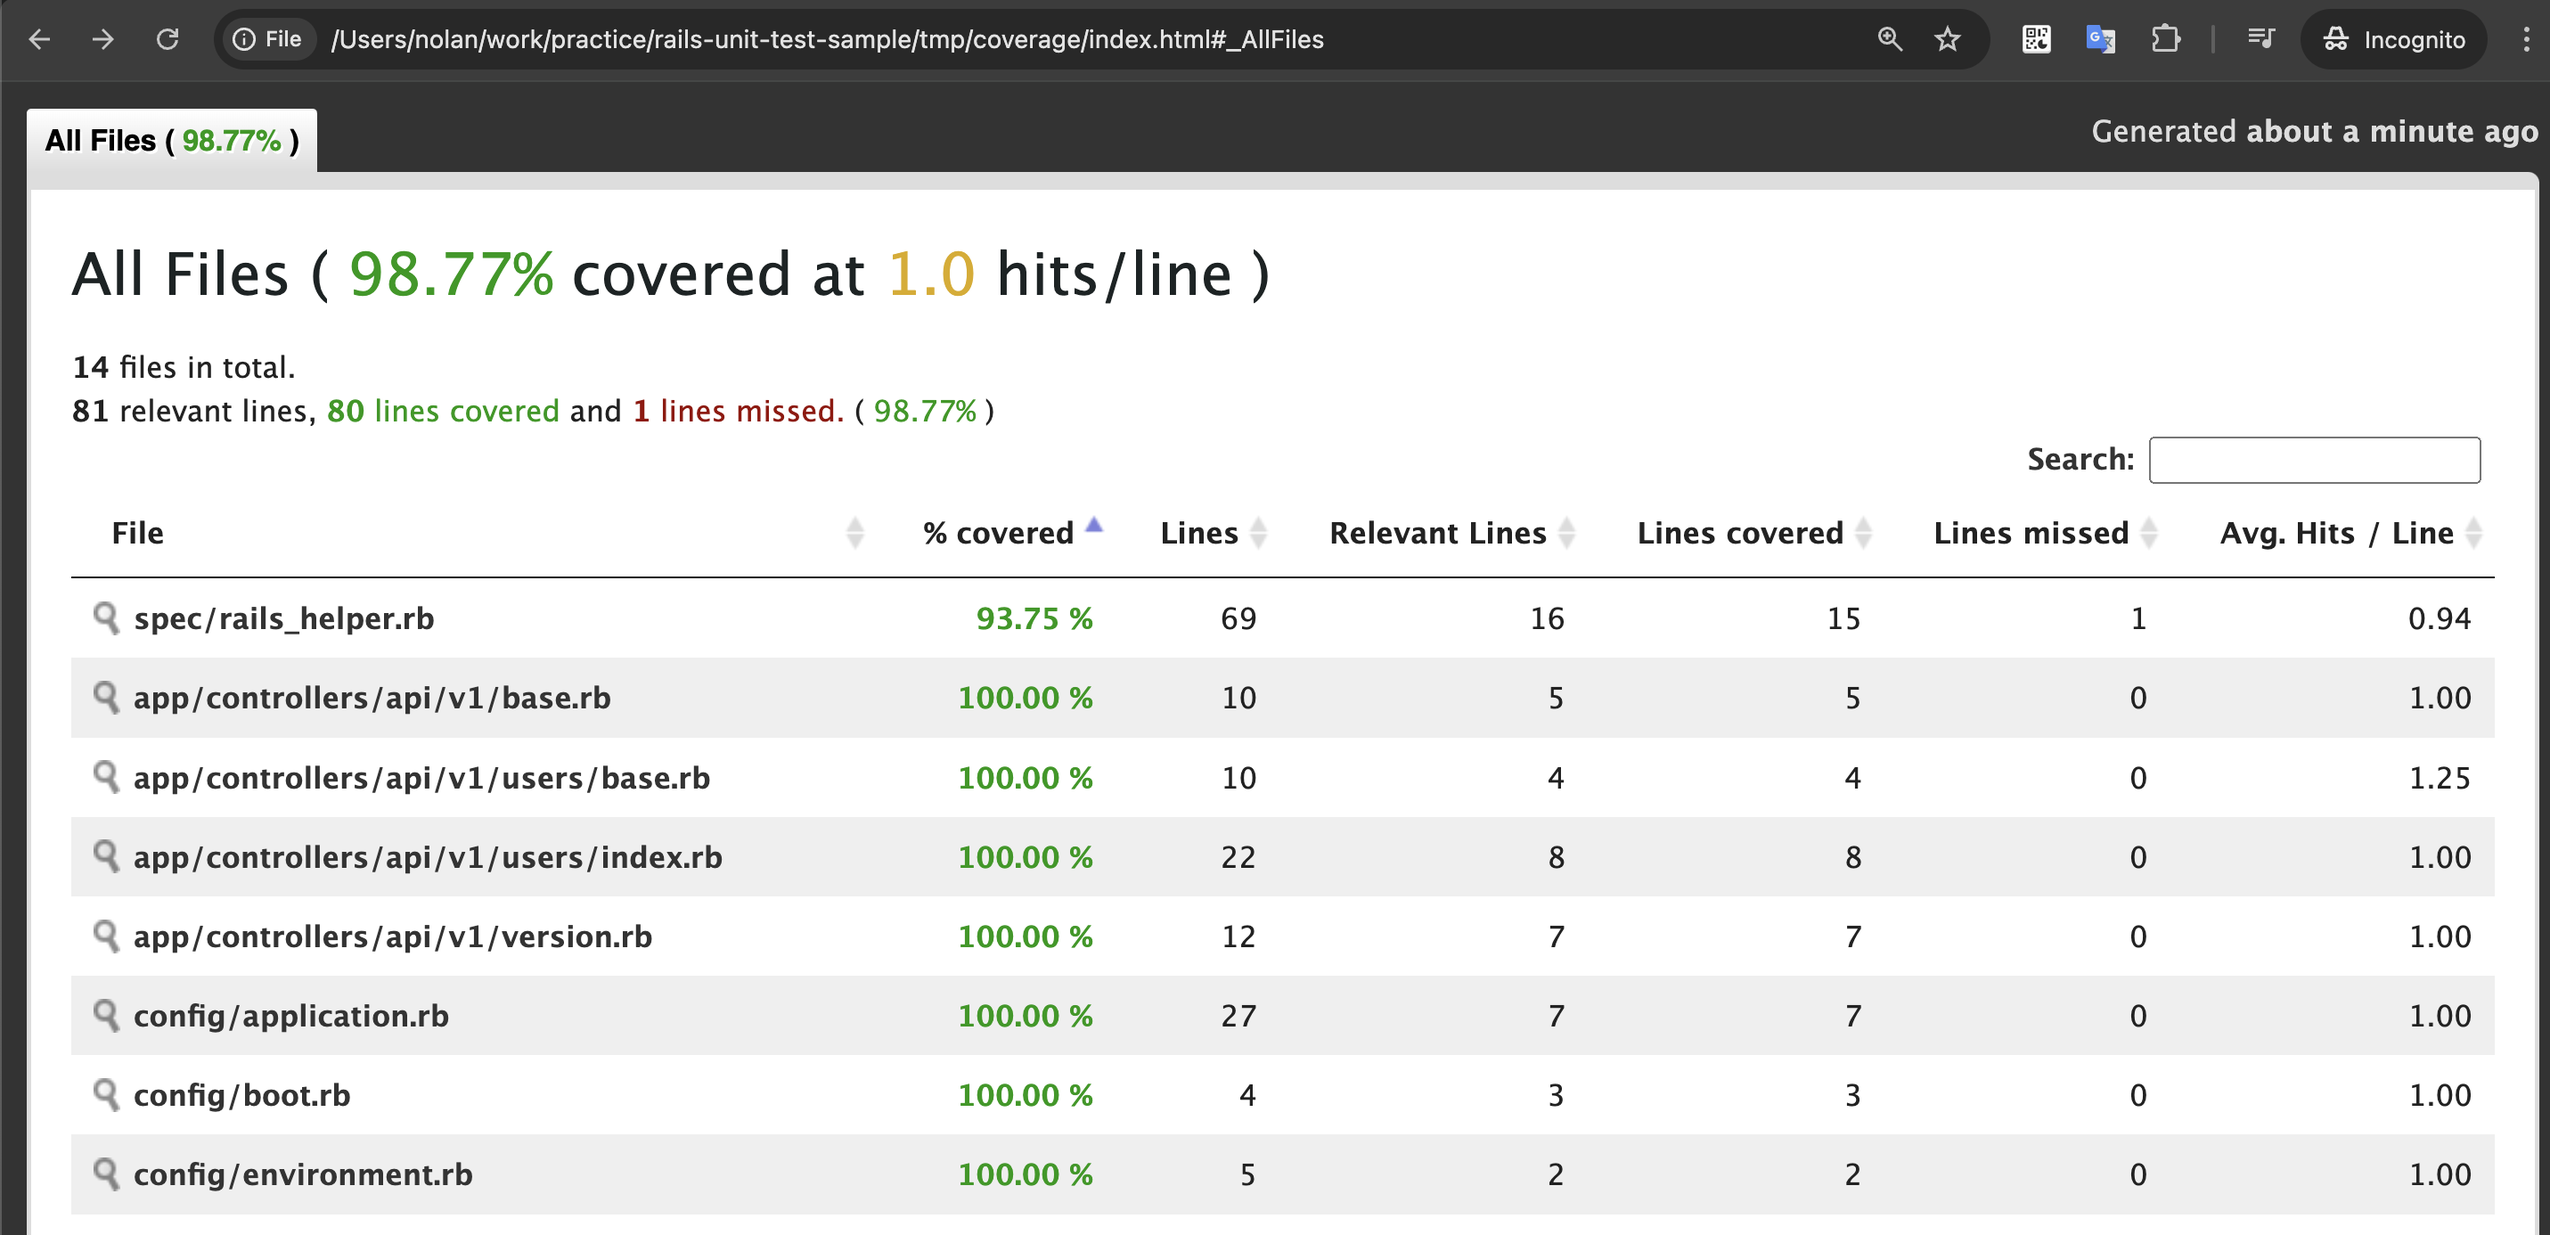
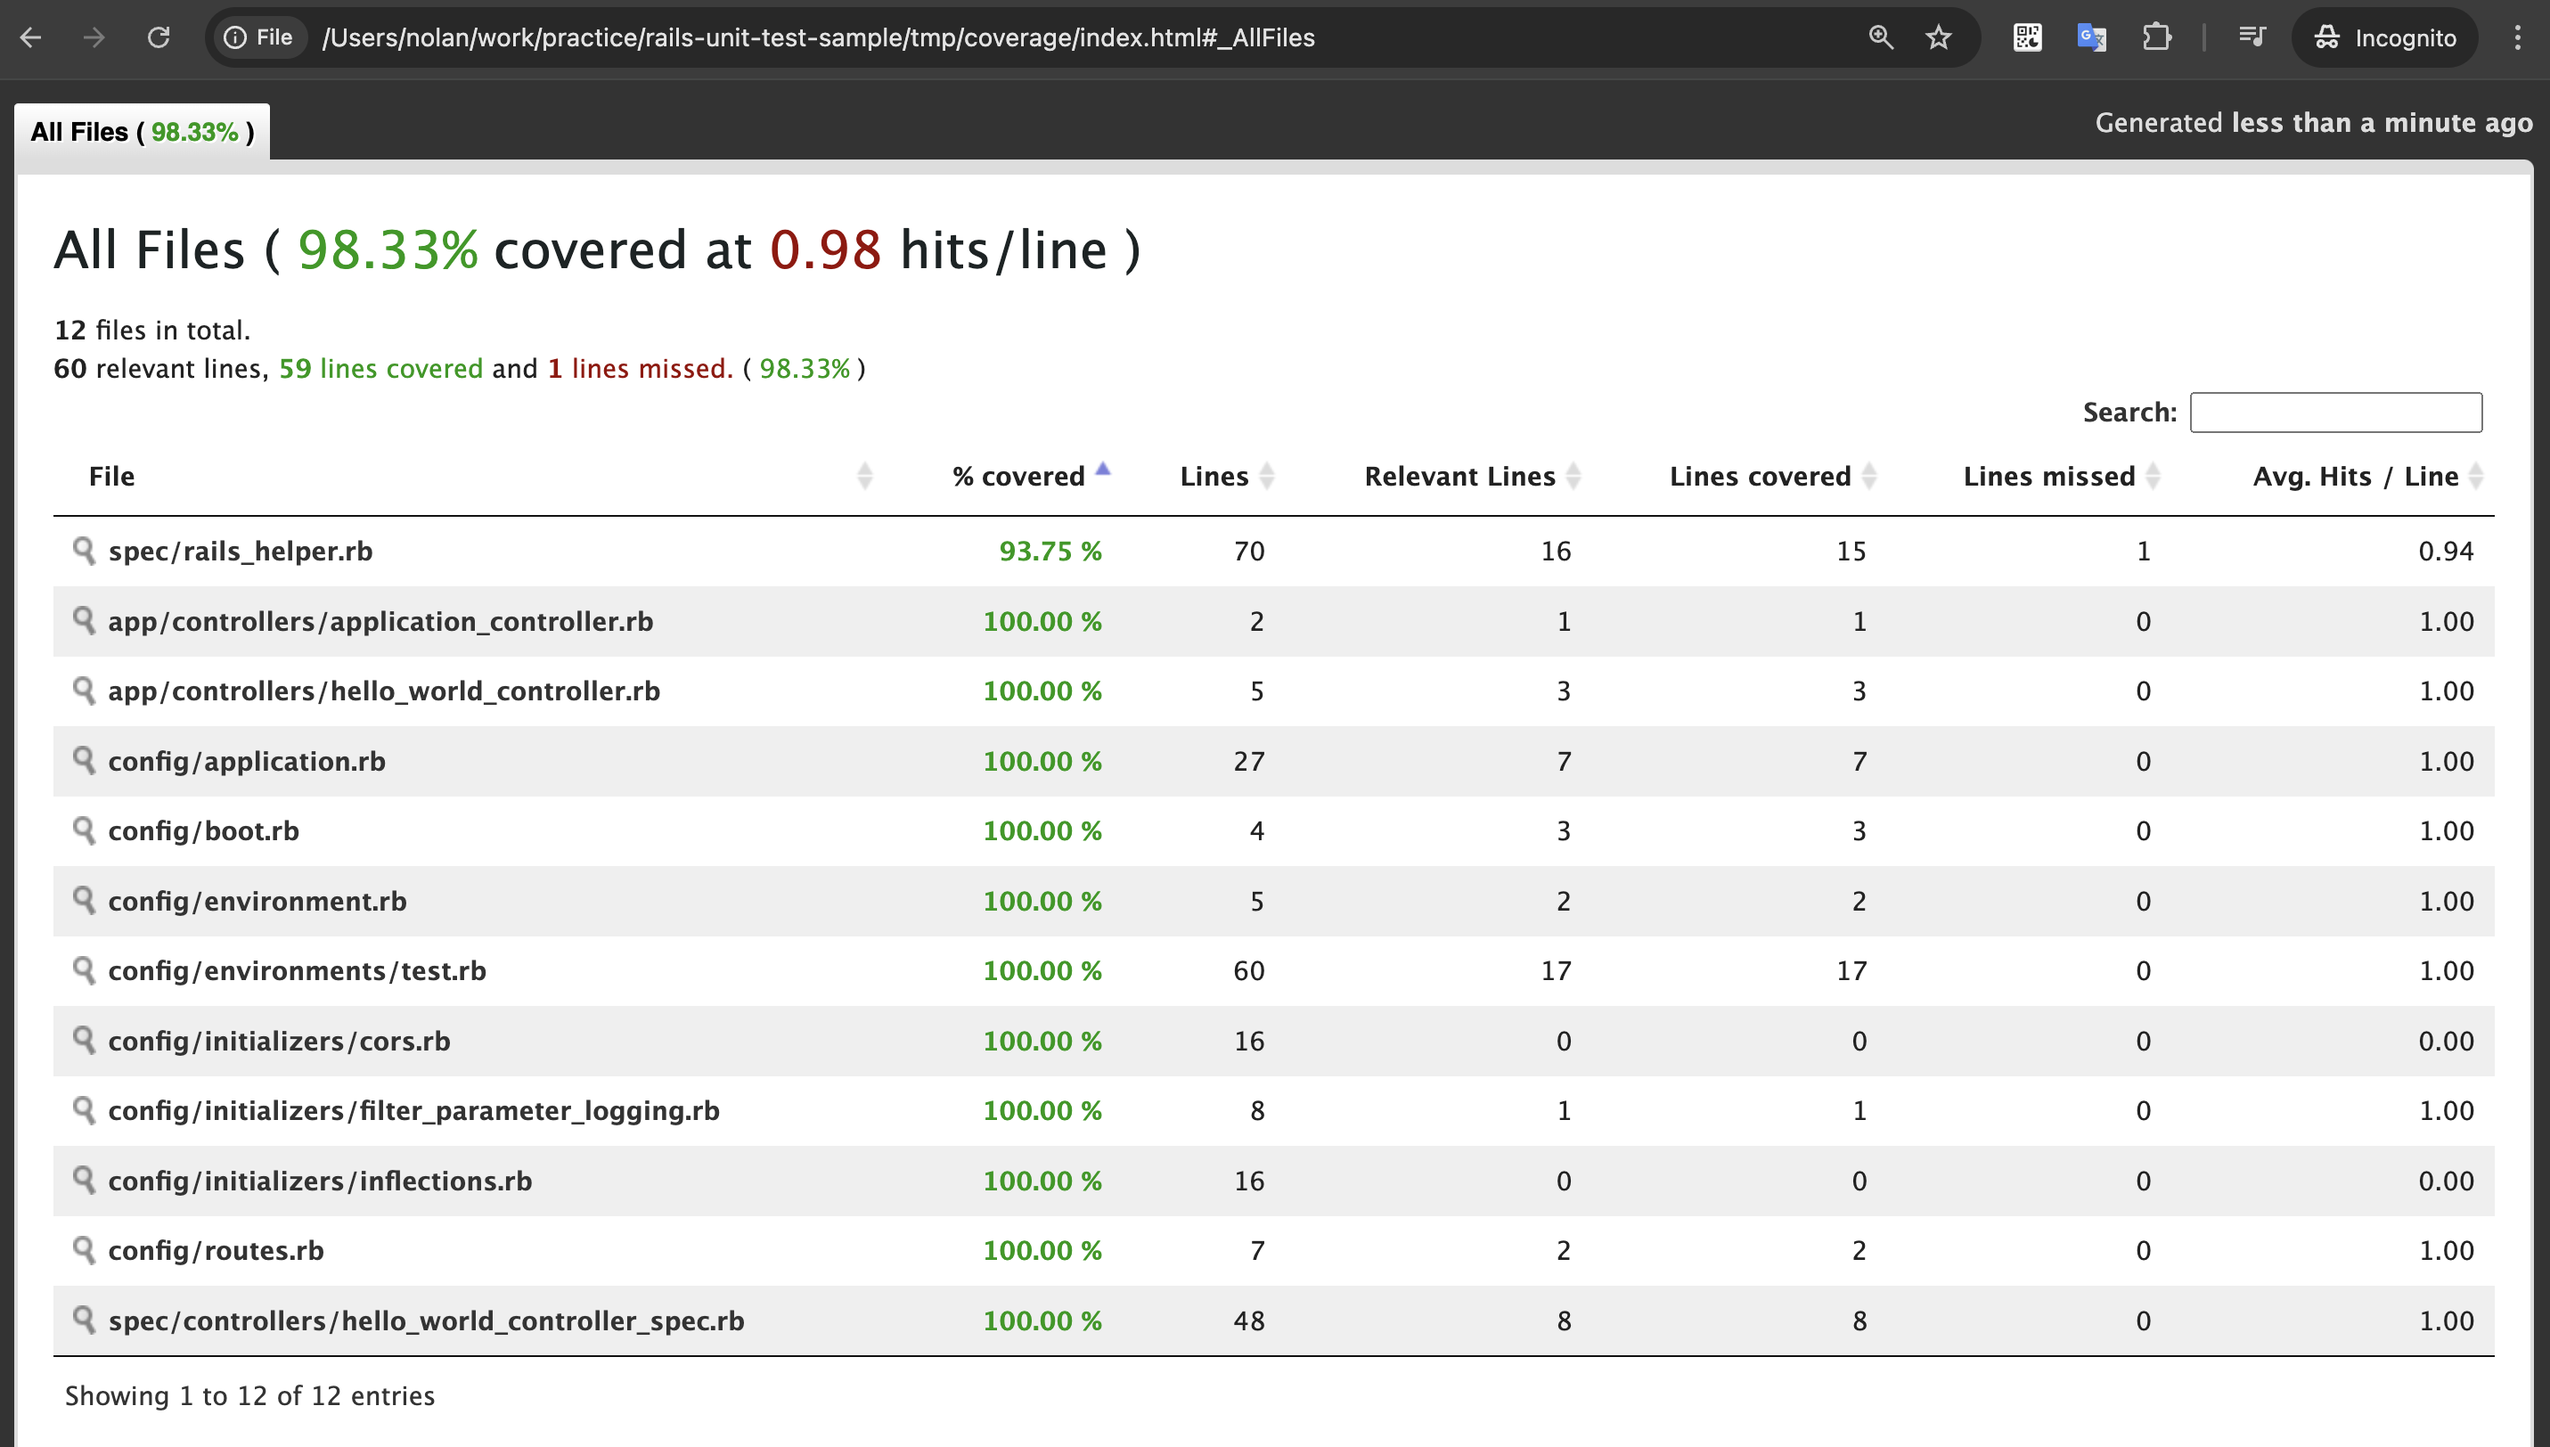
add rpsec for CRUD

diff --git a/_posts/2024-09-14-rails-rspec-part-2.md b/_posts/2024-09-14-rails-rspec-part-2.md
@@ -1,0 +1,242 @@
+---
+layout: post
+title:  "018.Unit test cho Rails (CRUD)."
+author: thach
+categories: [ Coding, Ruby]
+image: assets/images/post_017/rspec_cover.jpg
+beforetoc: "Ở bài này chúng ta sẽ cùng thử viết unit test cho api CRUD. Dành cho các bạn mới thì phần đầu sẽ hướng dẫn tạo api CURD, bạn nào chỉ quan tâm phần viết test thì có thể tới luôn phần 2"
+toc: true
+---
+#### 1. Tạo api CRUD
+Để cho gọn gàng, thì mình sẽ dùng luôn những hàm hỗ trợ của <mark>Rails</mark>, module User với 2 trường đơn giản là <mark>name</mark> và <mark>email</mark> chắc là đủ.
+```md
+$ rails generate model User name:string email:string
+      invoke  active_record
+      create    db/migrate/20240921150945_create_users.rb
+      create    app/models/user.rb
+      invoke    rspec
+      create      spec/models/user_spec.rb
+      invoke      factory_bot
+      create        spec/factories/users.rb
+```
+Lưu ý là chúng ta sẽ có thêm file <mark>spec/factories/users.rb</mark> từ gem <mark>factory_bot_rails</mark> trong Gemfile từ bài trước.
+
+Trong bài này, mình chỉ test controller, nên là các bạn xóa file <mark>spec/models/user_spec.rb</mark> đi. Có thể trong tương lai, chúng ta sẽ quay lại thảo luận về việc test model.
+
+Tiếp tục việc chuẩn bị Api CRUD, các bạn chạy <mark>migrate</mark> và viết <mark>controller</mark>
+
+```md
+rails db:migrate
+```
+```md
+rails generate controller Users
+```
+```ruby
+# /config/routes.rb
+
+Rails.application.routes.draw do
+  resources :users
+end
+```
+```ruby
+# /app/controllers/users_controller.rb
+
+class UsersController < ApplicationController
+  before_action :set_user, only: [:show, :update, :destroy]
+
+  def index
+    @users = User.all
+    render json: @users
+  end
+
+  def show
+    render json: @user
+  end
+
+  def create
+    @user = User.new(user_params)
+
+    if @user.save
+      render json: @user, status: :created
+    else
+      render json: @user.errors, status: :unprocessable_entity
+    end
+  end
+
+  def update
+    if @user.update(user_params)
+      render json: @user
+    else
+      render json: @user.errors, status: :unprocessable_entity
+    end
+  end
+
+  def destroy
+    @user.destroy
+    head :no_content
+  end
+
+  private
+
+    def set_user
+      @user = User.find(params[:id])
+    end
+
+    def user_params
+      params.require(:user).permit(:name, :email, :password)
+    end
+end
+```
+Thử nhanh phát nào
+```md
+# Tạo mới một user
+curl -X POST http://localhost:3000/users \
+-H "Content-Type: application/json" \
+-d '{"user": {"name": "Jane Doe", "email": "jane@example.com"}}'
+# {"id":1,"name":"Jane Doe","email":"jane@example.com","created_at":"2024-09-22T16:14:30.080Z","updated_at":"2024-09-22T16:14:30.080Z"}
+
+
+# Get list users
+curl -X GET http://localhost:3000/users
+# [{"id":1,"name":"Jane Doe","email":"jane@example.com","created_at":"2024-09-22T16:14:30.080Z","updated_at":"2024-09-22T16:14:30.080Z"}]
+```
+
+#### 2. Viết request spec đầu tiên
+> Rails có cả controller spec và request spec, TL;DR controller spec là tên gọi cũ của request spec, và từ Rails 5, khi ra mắt Rspec 3.5 thì team phát triển khuyến khích sử dụng request spec thay vì controller spec.
+
+Như đã nói ở trên, chúng ta sẽ dùng request spec, cụ thể là request có endpoint <mark>users</mark>.
+
+```md
+rails g rspec:request user
+# create  spec/requests/users_spec.rb
+```
+Chúng ta sẽ có file như sau
+
+```ruby
+# /spec/requests/users_spec.rb
+require 'rails_helper'
+
+RSpec.describe "Users", type: :request do
+  describe "GET /users" do
+    it "works! (now write some real specs)" do
+      get users_path
+      expect(response).to have_http_status(200)
+    end
+  end
+end
+```
+Nếu may mắn thì không cần chỉnh sửa gì cả, chạy lệnh <mark>bundle exec rspec</mark>, các bạn sẽ kết quả pass
+
+```md
+Finished in 0.02838 seconds (files took 1.61 seconds to load)
+2 examples, 0 failures
+
+Coverage report generated for RSpec to /Users/nolan/work/practice/rails-unit-test-sample/tmp/coverage. 85 / 98 LOC (86.73%) covered.
+Coverage report generated for RSpec to /Users/nolan/work/practice/rails-unit-test-sample/tmp/coverage/coverage.json. 85 / 98 LOC (86.73%) covered.
+Coverage report Rcov style generated for RSpec to /Users/nolan/work/practice/rails-unit-test-sample/tmp/coverage/rcov
+```
+
+![Coverage result](/assets/images/post_018/user_request_first_test.png "Coverage result")
+
+![Coverage result](/assets/images/post_018/user_request_first_test_detail.png "Coverage result")
+
+#### 3. Phân tích kĩ một chút
+
+Giờ hãy cùng phân tích một chút. Thay vì dùng lệnh <mark>rails g rspec</mark>, các bạn hoàn toàn có thể tự tạo một file đuôi <mark>_spec.rb</mark> và đặt đâu đó trong thư mục <mark>spec</mark>. Về cơ bản, khi chạy <mark>bundle exec rspec</mark>, tất cả các file này đều sẽ được chạy qua. Thường thì mình cũng làm vậy, và đặt đường dẫn tương đương với file cần test, như là <mark>spec/controllers/users_controller_spec.rb</mark>, <mark>spec/models/user_spec.rb</mark>, ...
+
+Cùng check qua file <mark>/spec/requests/users_spec.rb</mark> vừa tạo ở trên.
+
+```ruby
+RSpec.describe "Users", type: :request do       # Mô tả module của request
+  describe "GET /users" do                      # Mô tả request
+    it "works! (now write some real specs)" do  # Mô tả test case
+      get users_path                            # Thực hiện request
+      expect(response).to have_http_status(200) # Kiểm tra response với kết quả mong muốn
+    end
+  end
+end
+```
+
+Các bạn hoàn toàn có thể thay đổi text ở các phần mô tả, phần này sẽ không ảnh hưởng gì đến kết quả test của các bạn, nhưng tốt nhất vẫn nên viết sao cho khoa học, để dễ dàng có thể quản lý về sau.
+
+Giờ thì hoàn thiện các happy case cho <mark>users_controller</mark> nào
+
+```ruby
+require 'rails_helper'
+
+RSpec.describe "Users", type: :request do
+  let!(:user) { User.create(name: 'John Doe', email: 'john@example.com') }
+
+  describe "GET /users" do
+    it "returns a list of users" do
+      get "/users"
+      expect(response).to have_http_status(200)
+      expect(JSON.parse(response.body).size).to eq(1)
+    end
+  end
+
+  describe "GET /users/:id" do
+    it "returns a specific user" do
+      get "/users/#{user.id}"
+      expect(response).to have_http_status(200)
+      expect(JSON.parse(response.body)['name']).to eq('John Doe')
+    end
+  end
+
+  describe "POST /users" do
+    it "creates a new user" do
+      post "/users", params: { user: { name: 'Jane Doe', email: 'jane@example.com' } }
+      expect(response).to have_http_status(201)
+      expect(JSON.parse(response.body)['name']).to eq('Jane Doe')
+    end
+  end
+
+  describe "PUT /users/:id" do
+    it "updates the user" do
+      put "/users/#{user.id}", params: { user: { name: 'John Updated' } }
+      expect(response).to have_http_status(201)
+      user.reload
+      expect(user.name).to eq('John Updated')
+    end
+  end
+
+  describe "DELETE /users/:id" do
+    it "deletes the user" do
+      user_count = User.count
+      delete "/users/#{user.id}"
+      expect(User.count).to eq(user_count - 1)
+      expect(response).to have_http_status(:no_content)
+    end
+  end
+end
+```
+Khá là tương đồng với ví dụ ban đầu của chúng ta, mình tin là mọi người đều có thể hiểu được 5 test case này.
+
+Ở đây có thêm một thứ mới, đó là <mark>let!</mark>
+Mình thường sử dụng <mark>let!</mark>, <mark>let</mark>, hoặc các biến để mô phỏng kịch bản test. (Những trường hợp như tạo trước record để test api xóa, update. Hoặc là tạo trước một Catergory để test api tạo mới một bài Post, ...)
+
+Về phạm vi, các bạn có thể đặt <mark>let!</mark>/<mark>let</mark> ở bên trong một <mark>describe</mark> (hoặc một <mark>context</mark>, 2 cái này như nhau), và giá trị của nó sẽ tồn tại khi chạy xong cái hết cái <mark>describe</mark> đó. Ở ví dụ trên thì mình đặt <mark>let!</mark> ở cái <mark>describe</mark> ngoài, nên cả 5 test case đều có thể gọi <mark>user</mark>. Nếu bạn có cả trong và ngoài, thì cái bên trong sẽ override cái ở ngoài.
+
+Về vòng đời, <mark>let!</mark> sẽ chạy luôn phần code ở trong block ngay khi define. Còn <mark>let</mark> thì chờ tới khi được gọi mới chạy. Nếu bạn <mark>binding.pry</mark> ở sau <mark>let!</mark> và <mark>let</mark> để check <mark>User.all</mark>, các bạn sẽ thấy khác biệt.
+
+Và các giá trị của <mark>let!</mark>/<mark>let</mark> sẽ được cache (memoized) lại trong một <mark>it</mark>, ví dụ là bạn gọi <mark>user</mark> bao nhiêu lần trong cái <mark>it</mark> đó thì code trong block cũng không chạy lại. Nhưng khi chạy sang một <mark>it</mark> khác thì code trong block sẽ được chạy lại, và gán giá trị mới cho <mark>let!</mark>/<mark>let</mark>. Nên nếu define một <mark>let!</mark>/<mark>let</mark> có giá trị random và đặt <mark>binding.pry</mark> vào trong các <mark>it</mark>, các bạn sẽ thấy nó có các giá trị khác nhau.
+
+```ruby
+$count = 0
+RSpec.describe "let" do
+  let!(:count) { $count += 1 }
+
+  # count will not change no matter how many times we reference it in this it block
+  it "cached in same it" do
+    expect(count).to eq(1) # evaluated (set to 1)
+    expect(count).to eq(1) # did not change (still 1)
+  end
+
+  # count will be set to 2 and remain 2 untill the end of the block
+  it "and change in another it" do
+    expect(count).to eq(2) # evaluated in new it block
+  end
+end
+```
+
+Thường thì mình không sử dụng <mark>let</mark>, vì mình muốn chắc chắn là data test của mình được tạo trước khi gọi api, thậm chí là thừa còn hơn thiếu. Và mình cũng không đặt <mark>let!</mark> ở những <mark>describe</mark>/<mark>context</mark> quá to, chứa nhiều test case, để tránh define thừa quá nhiều data test cho những test case đơn giản.

diff --git a/_posts/2024-09-11-rails-rspec-part-1.md b/_posts/2024-09-11-rails-rspec-part-1.md
@@ -1,6 +1,6 @@
 ---
 layout: post
-title:  "017.Implement Rspec cho dự án Rails."
+title:  "017.Unit test cho Rails (Install)."
 author: thach
 categories: [ Coding, Ruby]
 image: assets/images/post_017/rspec_cover.jpg
@@ -78,36 +78,37 @@ Coverage report Rcov style generated for RSpec to /Users/nolan/work/practice/rai
 Giả như bạn có một api trả về text <mark>Hello World</mark>.
 
 ```ruby
-# app/controllers/api/v1/users/index.rb
+# config/routes.rb
 
-module API
-  module V1
-    module Users
-      class Index < Grape::API
-        get '' do
-          status :ok
-          content_type 'text/plain'
-          body 'Hello World'
-        end
-      end
-    end
+Rails.application.routes.draw do
+  get 'hello_world', to: 'hello_world#index'
+end
+```
+
+```ruby
+# app/controllers/hello_world_controller.rb
+
+class HelloWorldController < ApplicationController
+  def index
+    render json: { message: 'Hello, World!' }
   end
 end
 ```
 Và giờ ta viết một file test với path tương đương trong thư mục <mark>spec</mark>
 
 ```ruby
-# spec/controllers/api/v1/users/index_spec.rb
+# spec/controllers/hello_world_controller_spec.rb
 require 'rails_helper'
 
-RSpec.describe 'GET /api/v1/users', type: :request do
+RSpec.describe 'GET /hello_world', type: :request do
   context 'when show successfully' do
     before do
-      get '/api/v1/users'
+      get '/hello_world'
     end
 
     it 'should return status 200' do
       expect(response.status).to eq 200
+      expect(JSON.parse(response.body)['message']).to eq 'Hello, World!'
     end
   end
 end
@@ -116,6 +117,6 @@ end
 Chạy <mark>bundle exec rspec</mark> một lần nữa, giờ chúng ta có kết quả
 ![Coverage result](/assets/images/post_017/simplecov_first_result.png "Coverage result")
 
-Kiểm tra chi tiết file <mark>users/index.rb</mark> thì ta thấy phần code được chạy test, và số lần được test của những dòng code đó
+Kiểm tra chi tiết file <mark>app/controllers/hello_world_controller.rb</mark> thì ta thấy phần code được chạy test, và số lần được test của những dòng code đó
 
 ![Coverage result](/assets/images/post_017/simplecov_detail_result.png "Coverage result")
